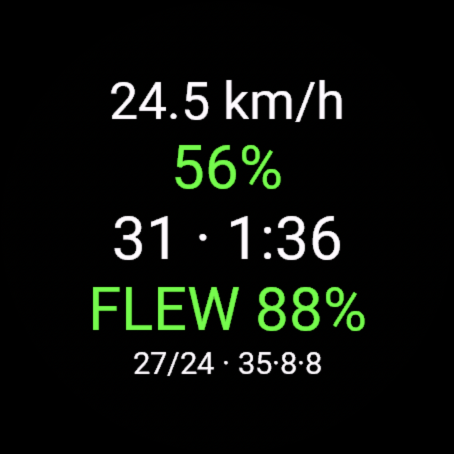
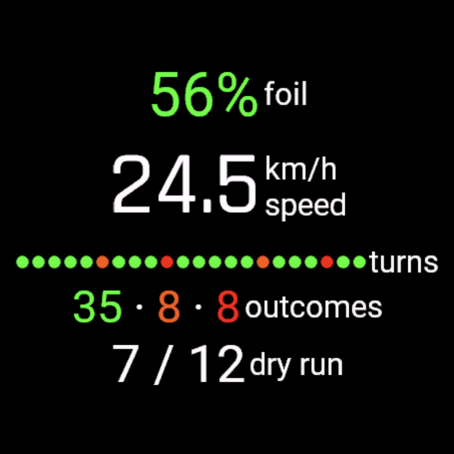
field 0.9.5: a version the field can be identified by, and shots that explain themselves
The field's manifests carried no version attribute at all — the number lived
only in the store's upload form, which is why garmin/store/listing.md had to be
the record of what shipped. All three channels now declare 0.9.5, and
FieldFit.APP_MINOR moves with them: it was 1 for as long as there was nothing
for it to agree with, and the high byte of the FIT session's app_version is
what says which build wrote the file. Only the low byte has readers downstream
(lab/parse.py, WingFoilKit), so nothing on the phone side moves.

The five store screenshots are re-shot on 0.9.5. 01 and 02 are the app-main
face in its two states — flying, and back on the water with the touchdown
orange in the tally — 03 and 04 are the 4- and 5-field layouts, which is where
the caption trade is visible (the full-width bands keep their words, the
quadrants give them up), and 05 is the new one: the session summary a stopped
rider reads. The stranger test they exist to pass: every number on every shot
has a word beside it or a colour that means something.

The listing's description says what the full-screen cell does now, what the
smaller cells can be set to, and — Jan's framing, kept — that the field is
newer and less tested than the CleanJibe app, that feedback is doubly welcome,
and that where a watch supports it the full app is still the recommendation.

Claude-Session: https://claude.ai/code/session_01Mg2rYYNYmQjnvCxJQwsEb7

Changed region(s): [[0.0308, 0.3084, 0.9868, 0.8634], [0.2467, 0.1542, 0.7709, 0.2775]]

diff --git a/garmin/store/listing.md b/garmin/store/listing.md
@@ -74,7 +74,8 @@ Note: Garmin keeps your stored page settings on update - existing installs can p
 ## Data field — `CleanJibe Field - Invite Beta`
 
 * Store page: <https://apps.garmin.com/apps/8dad33d4-e367-45a6-a4bb-9647fd6b5402>
-* Type: data field · Version **0.9.3** · first submitted 2026-08-13, current version released 2026-08-31
+* Type: data field · Version **0.9.5** · first submitted 2026-08-13, current version released 2026-08-31
+  (0.9.4 and 0.9.5 are prepared here; the upload is the coordinator's)
 * Permissions: FitContributor
 * Devices (`garmin/field/manifest-invite.xml`): fenix 8 (43 mm, 47 mm), fenix 8 Solar
   (47 mm, 51 mm), fenix 8 Pro (47 mm), fenix 7 / 7S / 7X, fenix 7 Pro / 7 Pro (no WiFi) /
@@ -89,7 +90,9 @@ Add it to any activity profile (Windsurf is the one wingfoilers usually use) and
 
 It shares its detection core with the WingFoil watch app: the same flight detection with tunable thresholds, the same turn detection with tack/jibe classification and flew / touchdown / fell-in outcomes. What it cannot do is pumping and takeoff analysis - Connect IQ forbids a data field from touching the accelerometer, so those metrics live in the watch app only.
 
-Layouts adapt to the cell you give it: a 3 or 4 field screen shows foil percentage with the flight count and timer, a 2 field screen adds the turn outcome and tally, and a full-screen field shows everything including speed.
+Layouts adapt to the cell you give it. Give it the whole screen and it draws the CleanJibe app's own main page: foil percentage, a giant speed, every counted turn as a coloured dot, the flew/touchdown/swim tally and your dry run - each with a small word beside it saying what it is. Pause or stop the activity and the same cell shows your session summary, two pages that alternate: foil share, flights, foil time against total, longest flight and distance, then the turn count, the tack/jibe split, the outcomes and your best speeds. Smaller cells stay compact, and you choose what they show: one metric for a 3 or 4 field cell, two for a 2 field one, out of speed, foil percentage, flights, flight timer, foil time, longest flight, distance, timer, heart rate, best 2s and 10s, turns, last turn, tacks/jibes, outcomes, dry run and the clock (Garmin Connect > CleanJibe Field > Settings).
+
+A word of honesty: the field is newer and less tested than the CleanJibe app. If you use it, your feedback is doubly welcome (github.com/JanLahmann/WingFoil/issues or info@cleanjibe.org). Where your watch supports it, we still recommend the full CleanJibe app.
 
 THIS BETA IS INVITE-ONLY. On the first activity the field shows an 8-character request code instead of metrics. Send that code to the developer (Contact Developer on this page) and you will receive your personal unlock key. Enter it in Garmin Connect under Connect IQ, WingFoil Field - Invite Beta, Settings, "Unlock key" - it takes effect immediately, mid-activity, and permanently on that watch. Without a key the field records nothing at all - please request a key instead of leaving a review about the lock.
 
@@ -113,6 +116,8 @@ paragraph, which should be `https://cleanjibe.org`.
 ### What's New (live text)
 
 ```
+0.9.5: the full-screen cell now shows the app's main page — giant speed, the colour ladder, tally and streak — and you can choose what smaller cells display (Garmin Connect > CleanJibe Field > Settings). Pause the activity and the field shows your session summary. A word of honesty: the field is newer and less tested than the CleanJibe app — if you use it, your feedback is doubly welcome (github.com/JanLahmann/WingFoil/issues or info@cleanjibe.org). Where your watch supports it, we still recommend the full CleanJibe app.
+
 0.9.3: the field is now called CleanJibe Field (same field, new name — cleanjibe.org). No functional changes; version now tracks the CleanJibe app family.
 
 0.1.0: first invite-beta release. Data field companion to the watch app - live foil state, foil time and percentage, flights, turn outcomes and tack/jibe tally, all written to the FIT as developer fields. fenix 8, fenix 7, Enduro 2 and tactix 7/8.
@@ -146,6 +151,8 @@ field. Dates are the commit dates; a store release usually follows by a day.
 
 | Version | Date | Commit | What it was |
 |---|---|---|---|
+| 0.9.5 | 2026-09-01 | this release | The full-screen cell became the app's main page (labelled), a session summary took over while the timer is stopped, and the smaller cells' rows became settings. First field build whose manifests carry a `version` attribute at all. |
+| 0.9.4 | 2026-09-01 | `8d014dc` | The chord-placement fix (no cell clips at the bezel any more) and the fenix 7 / Tier A product list on all three channels. |
 | 0.9.3 | 2026-08-31 | `442ffbe` | Renamed to CleanJibe Field; the version now tracks the app family. No functional change. |
 | 0.1.0 | 2026-08-11 | `cc64066` | First invite-beta release, alongside the `WingFoilCore` barrel it shares with the watch app. |
 
